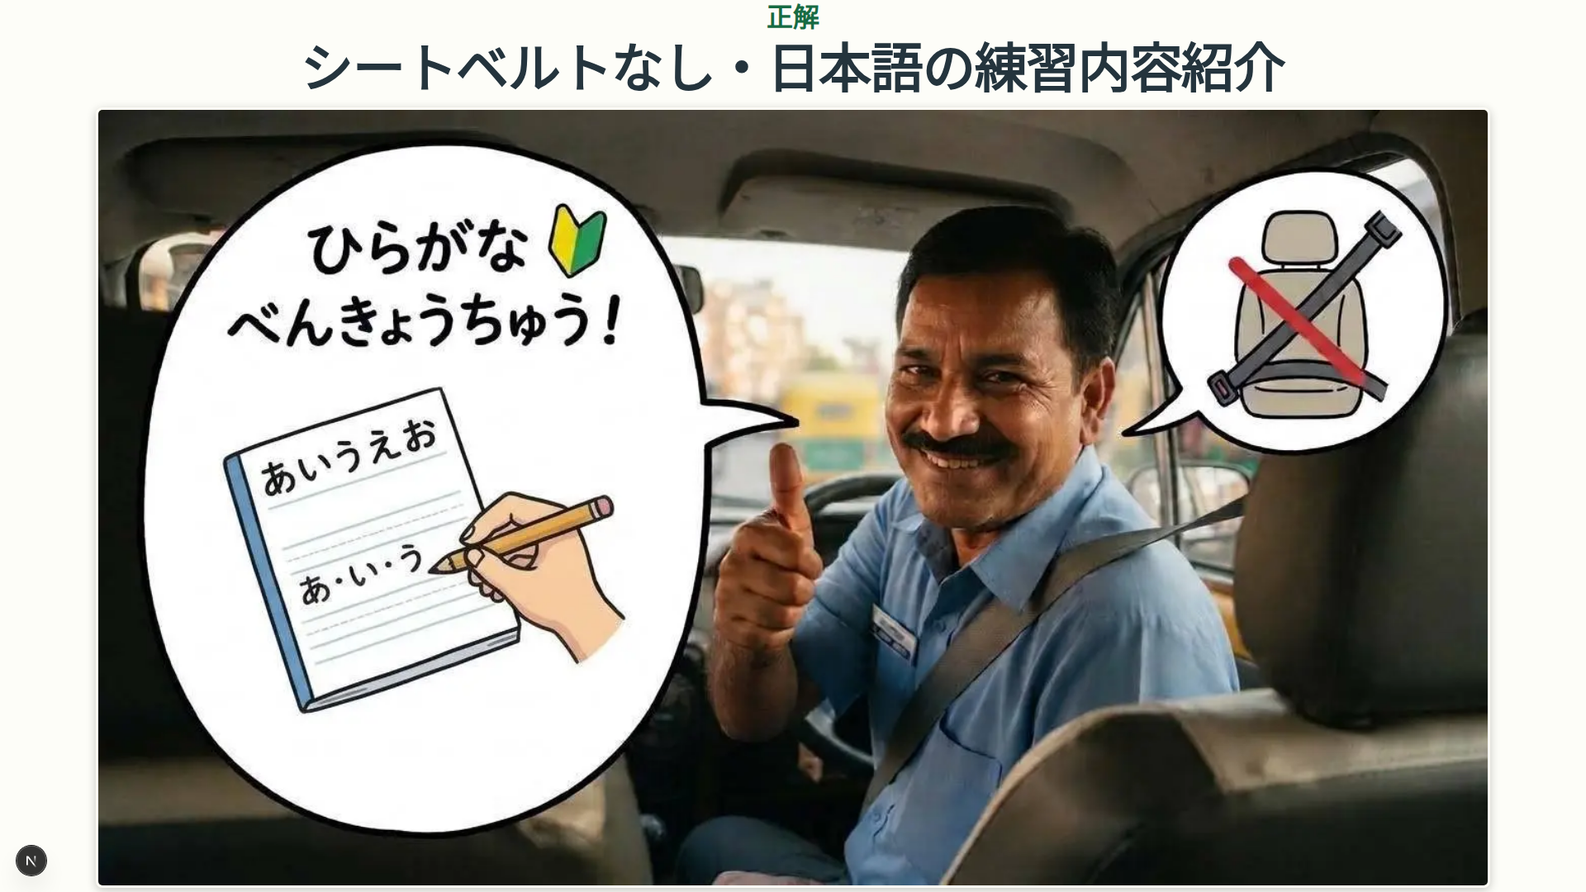
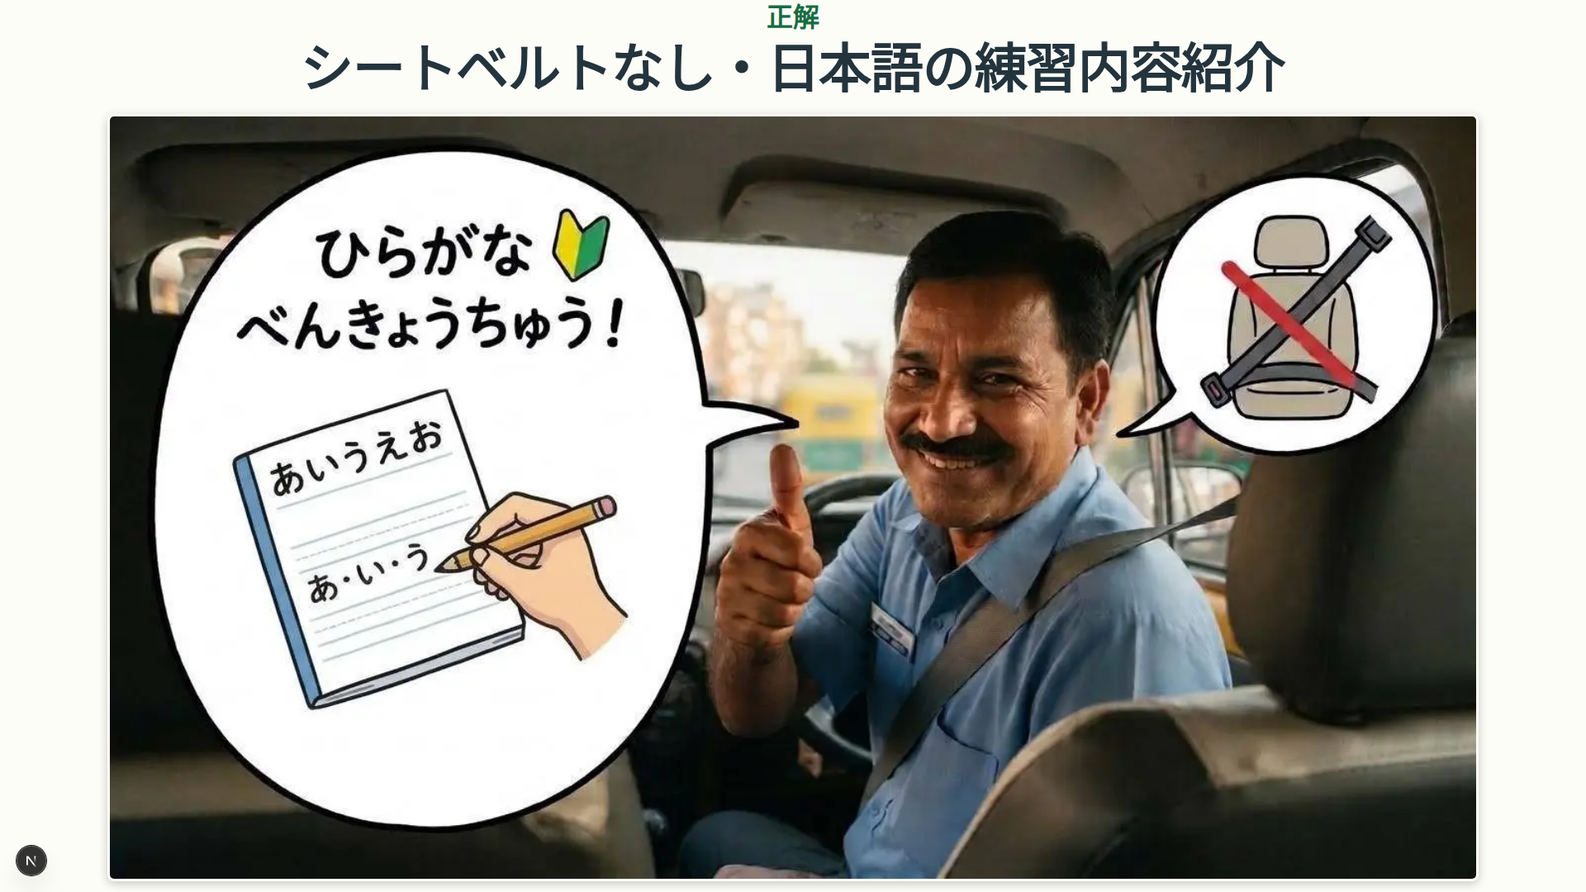
feat: update India presentation answer

diff --git a/src/app/presentation/presentation-screen.tsx b/src/app/presentation/presentation-screen.tsx
@@ -535,6 +535,21 @@ function WinnerQuestionBreakdown({ results }: { results: WinnerQuestionResult[] 
 }
 const longChoiceThreshold = 20;
 
+function QuestionHeadingText({ question }: { question: PublicQuestion | PublicAnswerQuestion }) {
+  const opening = "新郎が高校生のころ、";
+  if ((question.id === 7 || question.id === "7") && question.question.startsWith(opening)) {
+    return (
+      <>
+        {opening}
+        <br />
+        {question.question.slice(opening.length)}
+      </>
+    );
+  }
+
+  return question.question;
+}
+
 function hasLongChoice(choices: string[]) {
   return choices.some((choice) => Array.from(choice.trim()).length >= longChoiceThreshold);
 }
@@ -565,7 +580,9 @@ function QuestionPrompt({ question, className }: { question: PublicQuestion; cla
       <p className={styles.ordinal}>
         問 <strong>{question.ordinal}</strong>
       </p>
-      <h1 id="question-heading">{question.question}</h1>
+      <h1 id="question-heading">
+        <QuestionHeadingText question={question} />
+      </h1>
       <ol className={choicesClassName}>
         {question.choices.map((choice, index) => (
           <li key={`${index}-${choice}`}>
@@ -633,7 +650,6 @@ function AnswerReview({ question }: { question: PublicAnswerQuestion }) {
 
   if (
     (question.id === 2 || question.id === "2") &&
-    question.ordinal === 2 &&
     question.question.includes("インド") &&
     question.answerType !== "freeText"
   ) {
@@ -725,7 +741,9 @@ function AnswerReview({ question }: { question: PublicAnswerQuestion }) {
           問 <strong>{question.ordinal}</strong>
         </p>
         <div className={styles.answerContent}>
-          <h1 id="question-heading">{question.question}</h1>
+          <h1 id="question-heading">
+            <QuestionHeadingText question={question} />
+          </h1>
           <div className={styles.answerReveal}>
             <h2>模範解答</h2>
             <p>{question.expectedAnswer}</p>
@@ -763,7 +781,9 @@ function AnswerReview({ question }: { question: PublicAnswerQuestion }) {
         問 <strong>{question.ordinal}</strong>
       </p>
       <div className={styles.answerContent}>
-        <h1 id="question-heading">{question.question}</h1>
+        <h1 id="question-heading">
+          <QuestionHeadingText question={question} />
+        </h1>
         <ol className={choicesClassName}>
           {question.choices.map((choice, index) => {
             const isCorrect = (question.correctIndices ?? [question.correctIndex]).includes(index);

diff --git a/tests/app/presentation/presentation-screen.test.tsx b/tests/app/presentation/presentation-screen.test.tsx
@@ -306,6 +306,28 @@ describe("presentation projection and presenter progression", () => {
     expect(screen.queryByRole("button")).not.toBeInTheDocument();
   });
 
+  it("breaks the Q7 question heading after its opening phrase", async () => {
+    setup({
+      projection: {
+        state: "question",
+        question: {
+          id: 7,
+          ordinal: 7,
+          total: 7,
+          question: "新郎が高校生のころ、初めて珠美と出会った場所はどこ？",
+          choices: ["学校", "駅"],
+        },
+      },
+    });
+    render(<PresentationScreen />);
+
+    const heading = await screen.findByRole("heading", {
+      name: "新郎が高校生のころ、初めて珠美と出会った場所はどこ？",
+    });
+    expect(heading.querySelector("br")).toBeInTheDocument();
+    expect(heading.textContent).toBe("新郎が高校生のころ、初めて珠美と出会った場所はどこ？");
+  });
+
   it.each([
     {
       name: "single correct choice",
@@ -2914,9 +2936,9 @@ describe("presentation projection and presenter progression", () => {
       "the India Uber answer slide",
       {
         id: 2,
-        ordinal: 2,
+        ordinal: 5,
         total: 7,
-        question: "インドで利用した乗り物は？",
+        question: "インド出張の時に舜基と珠美が乗ったのは、どんなUberタクシー？",
         choices: ["Uber", "電車"],
         correctIndices: [0, 1],
       },
@@ -3016,9 +3038,9 @@ describe("presentation projection and presenter progression", () => {
       "the legacy selected-index fallback for the India slide",
       {
         id: 2,
-        ordinal: 2,
+        ordinal: 5,
         total: 7,
-        question: "インドで利用した乗り物は？",
+        question: "インド出張の時に舜基と珠美が乗ったのは、どんなUberタクシー？",
         choices: ["Uber"],
         correctIndex: 0,
       },
@@ -3028,9 +3050,9 @@ describe("presentation projection and presenter progression", () => {
       "an India slide without any valid correct index",
       {
         id: 2,
-        ordinal: 2,
+        ordinal: 5,
         total: 7,
-        question: "インドで利用した乗り物は？",
+        question: "インド出張の時に舜基と珠美が乗ったのは、どんなUberタクシー？",
         choices: ["Uber"],
         correctIndices: [4],
       },

diff --git a/tests/db/migrations.test.ts b/tests/db/migrations.test.ts
@@ -120,6 +120,55 @@ describe("database migrations", () => {
     }
   });
 
+  it("updates the India Uber prompt in migration 0040 and advances its question version", async () => {
+    const dir = mkdtempSync(join(tmpdir(), "stcirt-india-wording-migration-"));
+    const client = createClient({ url: `file:${dir}/migration.db` });
+    try {
+      await client.execute(`
+        CREATE TABLE exam_questions (
+          id integer PRIMARY KEY NOT NULL,
+          question_key text NOT NULL,
+          question text NOT NULL,
+          choices text NOT NULL,
+          correct_index integer NOT NULL,
+          question_version text
+        );
+      `);
+      await client.execute(`
+        INSERT INTO exam_questions (id, question_key, question, choices, correct_index, question_version)
+        VALUES (
+          2,
+          'it-literacy-002',
+          'インド出張の時に舜基と珠美が乗ったUberタクシーはどんなタクシーだった？（2つ選択）',
+          '["シートベルトなし","日本語の練習内容紹介","窓が全開","ぶつけても気にせず走行"]',
+          0,
+          'india-uber-multi-v3'
+        )
+      `);
+
+      const migration = readFileSync(
+        join(process.cwd(), "src/lib/db/migrations/0040_india_uber_question_wording.sql"),
+        "utf8",
+      );
+      for (const statement of migration.split("--> statement-breakpoint")) {
+        if (statement.trim()) await client.execute(statement);
+      }
+
+      const question = await client.execute(
+        "SELECT question, choices, correct_index, question_version FROM exam_questions WHERE id = 2",
+      );
+      expect(question.rows[0]).toEqual({
+        question: "インド出張の時に舜基と珠美が乗ったのは、どんなUberタクシー？",
+        choices: '["シートベルトなし","日本語の練習内容紹介","窓が全開","ぶつけても気にせず走行"]',
+        correct_index: 0,
+        question_version: "india-uber-multi-v4",
+      });
+    } finally {
+      client.close();
+      rmSync(dir, { recursive: true, force: true });
+    }
+  });
+
   it("preserves anonymous answer rows when migration 0002 adds participant attribution", async () => {
     const dir = mkdtempSync(join(tmpdir(), "stcirt-migration-test-"));
     const client = createClient({ url: `file:${dir}/migration.db` });

diff --git a/src/app/presentation/presentation-screen.module.css b/src/app/presentation/presentation-screen.module.css
@@ -891,8 +891,8 @@
 .airportAnswerFrame {
   position: relative;
   justify-self: center;
-  width: calc(100cqw - 2.4cqw);
-  height: min(80cqh, 45cqw);
+  width: 94cqw;
+  height: min(75cqh, 42.1875cqw);
   min-height: 0;
   border: 3px solid var(--color-presentation-fffdf5);
   border-radius: 8px;
@@ -955,8 +955,10 @@
 
 .contentLayer img.indiaUberAnswerImage {
   display: block;
-  width: 100%;
-  height: 100%;
+  width: auto;
+  height: min(86cqh, 48.375cqw);
+  max-width: 100%;
+  max-height: 100%;
   box-sizing: border-box;
   min-height: 0;
   border: 3px solid var(--color-presentation-fffdf5);

diff --git a/openspec/specs/stcirt/spec.md b/openspec/specs/stcirt/spec.md
@@ -52,6 +52,8 @@ Migration 0022 replaces Q2 (`exam_questions.id = 2`, key `it-literacy-002`) with
 
 Migration 0030 updates Q2's choices to `窓が全開`, `ぶつけても気にせず走行`, `シートベルトなし`, `日本語の練習内容紹介`, `インド料理を延々と紹介`, `インド映画音楽が爆音`, `大量の象のストラップ`, and `他の運転手と激しく口論`. The correct answers remain the seat-belt and Japanese-practice choices (indices 2 and 3), and the question version becomes `india-uber-multi-v2`. Older submissions are excluded from current-version aggregation; a latest submission with an explicitly mismatched saved question version is returned with invalid restore integrity and no answers, rather than restoring indices against the revised choices. Missing saved versions retain their existing compatibility behavior.
 
+Migration 0039 fixes Q2's choice order and advances its question version to `india-uber-multi-v3`. Migration 0040 changes its prompt to `インド出張の時に舜基と珠美が乗ったのは、どんなUberタクシー？` and advances its version to `india-uber-multi-v4` so answers submitted against the previous wording are not counted against the revised question.
+
 The fifth seeded exam question (`exam_questions.id = 5`, key `it-literacy-005`) is a free-response question: `2023年3月に珠美が物価高に耐えられず起こした行動は？`. Its model answer is `卵の値上がりが許せなかったため、春闘の賃上げが十分でないと卵を買わないと宣言し、実際に要求内容から一時金などが削られてしまったため、しばらく卵を買わなかった`.
 
 The sixth seeded exam question (`exam_questions.id = 6`, key `it-literacy-006`) is a single-choice question: `新婦の大学生時代の友人グループが鈴木先生の部屋に集めていたものは？`. Its fixed choices are `ご当地レトルトカレー`, `ご当地ラーメン`, `ご当地ストラップ`, and `ご当地じゃがりこ`; `ご当地レトルトカレー` is correct at index 0.
@@ -472,7 +474,7 @@ The presentation MUST use an explicitly aggregated versioned snapshot and MUST p
 - Presentation has one mode: the separate `explanation` field remains in the public projection payload but is not displayed on the answer slide. Free-text answer stages display their `expectedAnswer` as model-answer text; Q5 does not display a separate explanation. The old persisted `presentation_mode` value has no effect, and `setMode` requests are rejected. The question and answer stages remain separate manual stages; ranking stages remain manual in 3rd → 2nd → 1st order. Hiding the projection and moving backward work as before; score/rank snapshots remain fixed until the next explicit aggregate.
 - Presentation stages use one plain white 16:9 slide fitted inside a solid-color letterbox. The slide has no persistent header, footer, topline, or bottomline. On answer entry, the ordinal and question appear immediately; all multiple-choice options or the free-text model-answer heading and text remain in the initial DOM and accessibility tree and fade in together after a 100ms delay over 350ms. A published free-text response list fades in after a 350ms delay over 300ms. The separate `explanation` field is not rendered on the answer slide. A stable question-ID key prevents same-question polls and rerenders from replaying the answer reveal; leaving and re-entering an answer stage, including direct answer entry, plays it again. The animation changes opacity only, leaves all content in natural layout, does not delay progression, and does not control publication. Rank entry uses the motion and timing specified in R8-S8. All displayed tied-winner cards, names, scores, answer summaries, and any additional-winner count remain in the initial DOM and accessibility tree and natural layout, then reveal together through one inner content wrapper after the 760ms boundary over 540ms. A stable rank key prevents same-rank polls and rerenders from replaying the reveal; leaving and re-entering a rank stage, including direct rank entry, plays it once again. Reduced motion suppresses rank entrance animations and shows rank content and static decoration immediately. No JavaScript timer or React animation state controls answer or rank entrance. Reveal groups remain in natural layout and do not affect fit measurement. Progression announcements use only the concise live region specified below.
 - Every presentation stage renders all of its content at once inside the slide, with no page or stage-content vertical scrolling, clipping, line clamping, or pagination. A shared natural-size content layer is uniformly scaled down as needed to fit the canvas content box, with no minimum scale; viewport, fullscreen, content, image, and font changes trigger refitting. This applies to public and authenticated presenter projections equally. The answer stage for question ID 7 (space-solar-power) displays `正解` and the correct answer at the top, with the provided workflow photograph directly below occupying at least 70% of the 16:9 slide. For `it-literacy-005` (currently displayed as Q7), the question stage uses eight activity rows in a single-column itinerary, in chronological order and with each day's activities listed from top to bottom in time order. It shows each activity's date and time inline, omits standalone date rows to match the participant answer UI, and renders itinerary text slightly larger. It shows the question number followed directly by the itinerary, without a separate title, introduction, or question text. On desktop viewports, this question itinerary uses the available slide width and shows the A/B answer locations as blank labeled placeholders. Its answer stage displays `新鮮なロブスター` and `フレンチトースト` as two answer headings across the top of the slide, with the corresponding lobster and French toast photographs directly below each heading. The photographs retain their portrait aspect ratio and are sized to occupy approximately 80% of the slide height. Neither stage displays participant response rows, and this question has no separate supporting explanation. The question-stage timeline requires all activity rows to parse and each marker to appear exactly once; otherwise the existing free-text question display is used.
-- Japanese presentation text preserves standard line-breaking prohibitions and natural phrase boundaries. Short headings wrap by semantic phrase, supporting explanations avoid isolated particles or punctuation where space permits, and highlighted answer phrases stay together when they fit; narrow viewports and long unbroken strings must still wrap without overflowing. When the same question text appears on both question and answer slides under the same viewport conditions, the answer slide preserves the question slide's line breaks, including when either slide uses the existing fallback rendering. The Q5 question slide displays only the itinerary after the question number, with date and time inline on each activity, standalone date rows omitted, and both answers blank, matching the answer-stage itinerary structure.
+- Japanese presentation text preserves standard line-breaking prohibitions and natural phrase boundaries. Short headings wrap by semantic phrase, supporting explanations avoid isolated particles or punctuation where space permits, and highlighted answer phrases stay together when they fit; narrow viewports and long unbroken strings must still wrap without overflowing. The Q7 prompt and answer slide break after `新郎が高校生のころ、`. When the same question text appears on both question and answer slides under the same viewport conditions, the answer slide preserves the question slide's line breaks, including when either slide uses the existing fallback rendering. The Q5 question slide displays only the itinerary after the question number, with date and time inline on each activity, standalone date rows omitted, and both answers blank, matching the answer-stage itinerary structure.
 - Presenter navigation is manual and uses absolute position requests through the authenticated admin API and operation IDs. The presenter screen has no start/publication controls, management panel or links, persistent operation footer, or always-visible navigation buttons. The admin page owns start and publication and shows retryable failures, publication state, and current session state. Local navigation remains available while position persistence is pending and during 409 reconciliation: each accepted input updates the in-memory cursor and preloaded projection immediately. A single background writer serializes position POSTs and coalesces intermediate unsent targets into the newest absolute state/index. Ambiguous transport failures retry the exact sent request envelope with its original operation ID unless a newer unsent target supersedes it; never reuse an operation ID with a changed request. A 409 triggers controls/deck reconciliation; when the snapshot revision is unchanged and the latest target exists in that deck, rebase that target on the refreshed session version and retry it with a new operation ID. If the revision changed, discard the old-deck target and adopt the refreshed server cursor. Only server-accepted position writes enter the operation ledger; coalesced unsent targets create no ledger entries. The final slide uses canonical cursor index `max(questionCount - 1, 0)`. Teardown clears pending targets and retry timers and aborts any active request. A position response is validated against the five controls (`state`, nonnegative integer `version`, nonnegative integer `questionIndex` and `questionCount`, and boolean `projectionHidden`); a valid response is authoritative and is applied to the current in-memory deck. A matching normal success causes no operation-triggered session or controls GET and does not re-fetch the deck. Poll responses started before a newer local navigation, and polls overlapping pending position persistence, cannot roll the presenter back. If returned controls do not identify a slide in the loaded deck, controls are not treated as reconciled: progression is disabled while controls and deck are re-synchronized, and no neighboring slide is substituted. A 401 clears private controls and deck. Version alone does not establish that controls and a cached deck belong to the same session. Authorization checks remain unchanged.
 - Stage progression is available only to a confirmed presenter whose authenticated deck has loaded successfully, through Space, Enter, ArrowRight, ArrowLeft for previous, and horizontal pointer swipe (left advances, right returns). The existing slide-surface click/tap advance remains pending user confirmation and is retained provisionally. Controls are enabled only while both `presenter=1` and a valid admin session are confirmed; handlers remain inactive until the deck is ready. Repeated keys, modifier keys (Shift, Alt, Ctrl, Meta), and interactive, input, editable, or dialog targets do not trigger progression; repeat, multi-touch, canceled, vertical, and in-flight gestures do not add a separate mutation request because their position merges into the single serialized writer, and a swipe's follow-up click is suppressed. Public `/presentation` spectators are read-only. Movement cannot start a not-started session; finished blocks forward movement but permits previous.
 - The viewport projection uses the full viewport without reserving footer height or causing page scroll. The 16:9 slide canvas and safe area remain within that viewport. Presenter progression never requests browser fullscreen. Unsupported or rejected fullscreen, and exiting fullscreen with Escape, leave the viewport projection and manual progression usable; fullscreen is not automatically retried. Admin start, opening the projection tab, polling, idle time, and reload never request fullscreen.
@@ -515,6 +517,12 @@ Public presentation responses MUST disclose only the data permitted for the curr
 - AND reduced motion shows every prize label, title, full description, and image immediately, without changing image placement or blocking presentation controls
 - AND the presenter deck includes one prize slide for each populated rank after all rank announcements, in 3rd → 2nd → 1st order, independent of tied-winner count
 - AND each prize slide is omitted when its corresponding rank is empty; no prize slides appear when all ranks are empty
+
+#### Scenario: [R8-S12] Show the India answer with its photo
+
+- WHEN the answer stage displays the India question (`exam_questions.id = 2`, fifth in presentation order)
+- THEN the screen places the correct-answer heading above the supplied India answer photo
+- AND the single photo remains fully visible and occupies at least 70% of the 16:9 slide area
 
 #### Scenario: [R8-S4] Announce presentation progression concisely
 
@@ -633,7 +641,7 @@ Public presentation responses MUST disclose only the data permitted for the curr
 - Existing images, when present, preserve their aspect ratio and are shown with `contain` so the full image remains visible.
 - For the answer stage of Q4 (`it-literacy-004`, キング牛丼), show the correct answer at the top of the slide and one beef-bowl size comparison image beneath it. The image area occupies approximately 80% of the slide while preserving the image's full aspect ratio and content.
 - For the first displayed question whose correct selected choice is `台湾料理屋のラーメン` (identified by ordinal and correct answer content, independently of internal question ID or question wording), show `正解` and the correct answer at the top of the answer slide, followed by the supplied ramen photograph. The full photograph preserves its aspect ratio and occupies at least 60% of the 16:9 slide.
-- For the answer stage of the airport incident question (`exam_questions.id = 1`), show the correct answer above the supplied airport image. The image fills the area beneath the answer and occupies at least 70% of the slide; its subject is centered and may be cropped to keep the image prominent within the 16:9 canvas.
+- For the answer stage of the airport incident question (`exam_questions.id = 1`), show the correct answer above the supplied airport image. The image is centered beneath the answer, occupies at least 70% of the slide, and its subject may be cropped to keep it prominent within the 16:9 canvas.
 - The projection fills the viewport (`100vw` × `100dvh`, with a `100vh` fallback) without a footer reservation or page scrolling. The slide keeps its 16:9 canvas and safe area inside that space; long names and tied winners remain paired with their rank and score. The page itself does not scroll to accommodate content.
 - Public spectator slide content is rendered only from `GET /api/presentation`. An authenticated presenter loads the complete staged deck from `GET /api/admin/presentation/deck` for the current snapshot revision, then renders and navigates from that in-memory deck without requesting slide content during ordinary progression. Controls and deck revisions must match; on aggregate it reloads the deck, rejects stale fetches, and retains the server cursor/state. Presenter control polling uses only the lightweight state/cursor/hidden/revision metadata view; it does not include questions, answers, participant responses, or scores. When the presenter is not already in fullscreen, a visible `全画面表示` button requests fullscreen for the presentation wrapper directly from its click handler. The button is hidden whenever any document element is fullscreen and returns after fullscreen exits. Progression gestures do not request fullscreen, and button interactions do not advance slides or submit stage actions. Browser refusal, lack of support, or Escape exit does not interrupt the viewport projection or manual progression. The public spectator projection has no fullscreen control.
 - Projection reads are stage-specific and use one consistent database transaction. If projection is hidden, the repository returns standby before reading questions, entries, or source-question metadata. The `question` stage reads only its cursor-indexed question. The `answer` stage reads the cursor snapshot and required source-question metadata, and reads participant entries only for non-Q5 free-text response data. A rank stage loads only the announced winners' detail required by its response; `podium_preview` and `finished` skip question, entry, and source-question reads. Non-Q5 free-text responses retain rank then display-name order. Projection data is not cached across users or requests.
